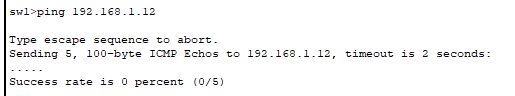
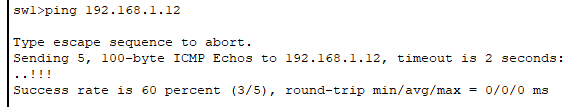
Punto 3

Changed region(s): [[0.0, 0.0, 0.9631, 1.0]]

diff --git a/TP-4/Trabajo Practico N4.md b/TP-4/Trabajo Practico N4.md
@@ -1,0 +1,293 @@
+# Trabajo Práctico 4
+
+**Nombres**  
+
+_María Pilar Sabena_
+
+_Mateo Quispe_
+
+_Nicolas De la Mata_  
+
+_Matias J. Costamagna_
+
+**Grupo:** _Ethernautas_ 
+
+**Facultad de Ciencias Exactas, Físicas y Naturales**  
+
+**Asignatura:** _Comunicaciones de Datos_
+
+**Profesores**
+_Miguel Á. Solinas_
+_Santiago M. Henn_
+_Facundo Oliva Cuneo_
+
+**Fecha:** _Septiembre_, 2025_
+
+---
+
+### Desarrollo
+
+### Punto 1
+
+a) Las redes se clasifican según su cobertura geográfica:
+- PAN (Personal Area Network):
+    - Alcance: Muy reducido (pocos metros, hasta ~10m)
+    - Características: Conecta dispositivos personales cercanos (smartphone, laptop, smartwatch, auriculares)
+    - Tecnologías: Bluetooth, NFC, USB
+
+- LAN (Local Area Network):
+    - Alcance: Edificio o campus (hasta ~1 km)
+    - Características: Red privada de alta velocidad, baja latencia, propiedad de una organización
+    - Tecnologías: Ethernet (IEEE 802.3), Wi-Fi (IEEE 802.11)
+
+- MAN (Metropolitan Area Network):
+    - Alcance: Ciudad o área metropolitana (hasta ~50 km)
+    - Características: Interconecta múltiples LANs en una zona geográfica amplia
+    - Tecnologías: Fibra óptica, enlaces inalámbricos de alta capacidad
+
+- WAN (Wide Area Network):
+    - Alcance: País, continente o mundial
+    - Características: Conecta redes a grandes distancias, menor velocidad que LAN/MAN, usa infraestructura de proveedores
+    - Tecnologías: MPLS, Frame Relay, Internet 
+
+b) VLAN (Virtual Local Area Network) es una red lógica que permite segmentar una red física (LAN) en múltiples redes virtuales independientes, sin necesidad de cambiar la infraestructura física.
+Clasificación de VLANs:
+
+- Por Puerto (Port-based VLAN): Los puertos del switch se asignan manualmente a una VLAN específica
+- Por Protocolo (Protocol-based VLAN): Basada en el tipo de protocolo (IP, IPX, AppleTalk)
+- Por Dirección MAC (MAC-based VLAN): Asigna dispositivos a VLANs según su dirección MAC
+- Por subred IP (Network-based VLAN): Basada en la dirección IP del dispositivo
+
+VLANs especiales:
+- VLAN 1: VLAN por defecto, tráfico de gestión
+- VLAN nativa: Para tráfico sin etiquetar en enlaces trunk
+- VLAN de gestión: Para administración de dispositivos de red
+
+c) EEE 802.1Q es el estándar que define el etiquetado de tramas Ethernet (frame tagging) para implementar VLANs en redes conmutadas. <br>Inserta un campo de 4 bytes en la trama Ethernet (entre los campos de dirección MAC de origen y EtherType).
+Este campo contiene:
+- TPID (Tag Protocol Identifier): 2 bytes - valor 0x8100
+- TCI (Tag Control Information): 2 bytes
+    - PCP (3 bits): Prioridad (QoS)
+    - DEI (1 bit): Drop Eligible Indicator
+    - VID (12 bits): VLAN ID (0-4095)
+
+Relación con VLANs:
+- Permite que múltiples VLANs compartan el mismo enlace físico (trunk)
+- Los switches usan el VID para identificar a qué VLAN pertenece cada trama
+- Mantiene el aislamiento lógico entre VLANs aunque compartan infraestructura
+
+d) El Tagginge es el mecanismo técnico que hace posible la implementación práctica de las VLANs dentro de redes de alcance LAN. En el contexto de la clasificación de redes por alcance, tradicionalmente una LAN física representaba un único dominio de broadcast que requería infraestructura dedicada para cada segmento de red, lo cual era costoso e inflexible. Las VLANs resolvieron este problema permitiendo crear múltiples redes lógicas sobre la misma infraestructura física, pero esto generó un nuevo desafío: cuando múltiples VLANs comparten el mismo enlace físico entre switches, es necesario un método para identificar a qué VLAN pertenece cada trama. El Tagging, definido por el estándar IEEE 802.1Q, soluciona este problema insertando un campo de 4 bytes en las tramas Ethernet que incluye el identificador de VLAN (VID). Este proceso funciona de la siguiente manera: cuando una trama llega a un puerto de acceso, el switch conoce la VLAN asociada a ese puerto; si la trama debe enviarse a través de un enlace trunk hacia otro switch, el switch agrega la etiqueta 802.1Q con el número de VLAN correspondiente; la trama viaja por el cable físico con esta etiqueta, permitiendo que múltiples VLANs compartan el mismo medio; el switch receptor lee la etiqueta, identifica la VLAN y envía la trama solo a los puertos que pertenecen a esa VLAN; finalmente, si el puerto destino es de acceso, se remueve la etiqueta antes de entregar la trama al dispositivo final. De esta forma, el Tagging es la tecnología fundamental que permite virtualizar una única LAN física en múltiples LANs lógicas aisladas, haciendo posible que empresas, campus universitarios o cualquier organización puedan segmentar su red por departamentos, funciones o niveles de seguridad sin necesidad de duplicar la infraestructura física de switches y cableado, optimizando recursos y simplificando la gestión de red.
+
+---
+
+### Punto 2
+
+![Red Topologica](https://hackmd.io/_uploads/r1uL1BuAxl.png)
+
+
+a) Cambio de nombre de los switches
+![2-A-SW1](https://hackmd.io/_uploads/S1cYC4dAxg.png)
+![2-A-SW2](https://hackmd.io/_uploads/r1ljRNdRgg.png)
+
+b) Asignacion de contraseñas
+![2-B-SW1](https://hackmd.io/_uploads/r13jAVdClg.png)
+![2-B-SW2](https://hackmd.io/_uploads/SJhoAVd0gx.png)
+
+c)Encriptacion de contraseñas
+![2-C](https://hackmd.io/_uploads/B1C1yruRee.png)
+
+d) Configuracion VLANs
+![2-D-SW1](https://hackmd.io/_uploads/ryQ-1B_0gg.png)
+![2-D-SW2](https://hackmd.io/_uploads/r1X-Jrd0lx.png)
+
+e) Interfaces activas
+![2-E-F-SW1](https://hackmd.io/_uploads/S1sGkHd0le.png)
+![2-E-F-SW2](https://hackmd.io/_uploads/S1ozkHORge.png)
+
+g) Comunicacion entre computadoras
+![2-G](https://hackmd.io/_uploads/r1fv1SdRgg.png)
+
+h) Creacion VLANs
+![2-H-SW1](https://hackmd.io/_uploads/BJDdJHuRxe.png)
+
+i) La VLAN utilizada por defecto es la VLAN 1.
+![2-I-SW1](https://hackmd.io/_uploads/SJgnyS_Rll.png)
+
+j) Asignacion de PC-A a VLAN Laboratorio (VLAN 10)
+![2-J-SW1](https://hackmd.io/_uploads/B176yruRgg.png)
+
+k) Modificacion IP de VLAN 1 y estado de Interfaces e IP's
+![2-K-L-SW1 (2)](https://hackmd.io/_uploads/r1rylrdAgl.png)
+![2-K-L-SW1](https://hackmd.io/_uploads/BJrylBuRex.png)
+
+m) Asignacion PC-B a VLAN Laboratorio (VLAN 10)
+![2-M-SW2 (2)](https://hackmd.io/_uploads/S1Fzxr_Alx.png)
+![2-M-SW2](https://hackmd.io/_uploads/ryYMxS_Axg.png)
+
+n) Verificacion de conexion entre PC's y entre Switches
+![2-N-PCA](https://hackmd.io/_uploads/B1hb7gbJbg.png)
+![2-N-SW1](https://hackmd.io/_uploads/ByeCmxZybl.png)
+
+--- 
+
+### Punto 3
+
+1. Diseño y Cableado Físico
+Se implementó una topología centralizada compuesta por el Router Aircraft, un Switch (SW), un Server Entretenimiento y siete dispositivos finales (PCs).
+
+
+
+| Conexión | Dispositivos | Interfaz Router | Interfaz Switch | Tipo de Cable |
+| -------- | -------- | -------- | - | - |
+| Enlace Troncal     | Router $\leftrightarrow$ SW     | Fa0/0     | F0/1 | Cobre Directo |
+| WAN/ISP | Router $\leftrightarrow$ ISP Router | Fa0/1 | G0/0 | Cobre Cruzado |
+| Server     | SW $\leftrightarrow$ Server     | N/A     | F0/8 | Cobre Directo |
+| PCs Cliente | SW $\leftrightarrow$ PCs | N/A | F0/2 a F0/7 | Cobre Directo |
+
+![Topologico - Punto 3](https://hackmd.io/_uploads/SkOs9Wb1Zx.png)
+
+
+2. Configuración del Switch (SW)
+Se definieron las VLANs y se asignaron los puertos según la clase de servicio.
+
+    A. Creación y Nombres de VLANs
+    Se crearon y nombraron las VLANs necesarias:
+
+    Fragmento de código:
+
+    vlan 10
+     name Turista
+    vlan 20
+     name Business
+    vlan 99
+     name Admin
+     
+    B. Asignación de Puertos (Access Ports)
+Se asignaron los puertos al modo de acceso según el número de PCs por clase:
+
+
+    | Clase | VLAN | Interfaz(ces) | PCs | 
+    | -------- | -------- | -------- | - |
+    | Turista     | 10     | FastEthernet0/2 - 4     | 3 |
+    | Business     | 20     | FastEthernet0/5 - 6     | 2 |
+    | Admin     | 99     | FastEthernet0/7     | 1 |
+    | Server     | 99     | FastEthernet0/8     | 1 |
+    
+    C. Enlace Troncal
+Se configuró el puerto F0/1 como troncal para el Router:
+    interface FastEthernet0/1
+     switchport mode trunk
+
+3. Configuración del Router Aircraft
+El Router se configuró para enrutamiento, NAT y aplicación de ACLs, utilizando la sintaxis de interfaces FastEthernet (Fa0/0 y Fa0/1).
+
+    **A. Enrutamiento Inter-VLAN (Subinterfaces):**
+Se crearon las subinterfaces en Fa0/0 para actuar como Gateways y se marcaron como interfaces NAT Internal.
+
+    Fragmento de código:
+
+        interface FastEthernet0/0.10
+        encapsulation dot1Q 10
+        ip address 10.10.10.1 255.255.255.0
+        ip nat inside
+        interface FastEthernet0/0.20
+        encapsulation dot1Q 20
+        ip address 10.10.20.1 255.255.255.0
+        ip nat inside
+        interface FastEthernet0/0.99
+        encapsulation dot1Q 99
+        ip address 10.10.99.1 255.255.255.0
+        ip nat inside
+
+    **B. Interfaz WAN y NAT Outside:**
+Se configuró la interfaz de salida a Internet y se marcó como NAT Outside.
+
+    Fragmento de código:
+
+        interface FastEthernet0/1
+        ip address 200.0.0.1 255.255.255.252
+        ip nat outside
+        no shutdown
+     
+     **C. Configuración de NAT (VLAN 20 Exclusiva):** Se implementó PAT (Port Address Translation) para permitir que solo la VLAN 20 acceda a Internet.
+
+    Fragmento de código:
+
+        access-list 20 permit 10.10.20.0 0.0.0.255
+        ip nat inside source list 20 interface FastEthernet0/1 overload
+    
+    **D. ACL (Restricción de Turista):** Se aplicó la ACL extendida 100 para bloquear el tráfico de Turista (10.10.10.0/24) hacia cualquier destino externo, mientras se permite el tráfico restante (incluido el tráfico interno hacia el servidor).
+
+    Fragmento de código:
+
+        access-list 100 deny ip 10.10.10.0 0.0.0.255 any
+        access-list 100 permit ip any any
+        interface FastEthernet0/0.10
+        ip access-group 100 out
+     
+     **E. Ruta por Defecto:** Se configuró una ruta estática para dirigir todo el tráfico desconocido (Internet) al ISP:
+
+    Fragmento de código:
+
+        ip route 0.0.0.0 0.0.0.0 200.0.0.2
+    
+4. Direccionamiento de End Devices y Servidor
+
+    Los dispositivos finales fueron configurados con direcciones IP estáticas y su Gateway correspondiente (la IP de la subinterfaz del router). Por ejemplo, el Server Entretenimiento se configuró con la IP $10.10.99.10$ y Gateway $10.10.99.1$.
+
+5. Pruebas
+
+    A. Ping al servidor de entretenimiento desde PC Turista.
+    ![3-A](https://hackmd.io/_uploads/SkpimZZkbl.png)
+    
+    B. Acceso HTTP a servidor local desde PC Turista.
+    ![3-B](https://hackmd.io/_uploads/HkK4EZ-1Wx.png)
+    
+    C. Ping a Internet desde PC Turista.
+    ![3-C](https://hackmd.io/_uploads/S1mv1fZ1be.png)
+
+
+    D. Acceso HTTP a servidor local desde PC Business.
+    ![3-D](https://hackmd.io/_uploads/SyyYSZ-kWe.png)
+    
+    E. Ping a Internet (ej: 8.8.8.8) desde PC Business.
+    ![3-E](https://hackmd.io/_uploads/S1muF--1Zx.png)
+    
+    F. Ping entre Admin y todos.
+    
+    Ping a Dispositivos Locales (VLAN 99): Comprueba la conectividad con el Servidor de Entretenimiento, que también está en la VLAN 99.
+
+    ![3-F (1)](https://hackmd.io/_uploads/ryjRtb-yZe.png)
+    
+    Ping a Otras VLANs: Comprueba la comunicación a través del Router Aircraft a las VLANs de Turista y Business.
+
+    ![3-F (2)](https://hackmd.io/_uploads/S10Q5--1bl.png)
+    
+    Ping a Internet (Comprobación de Acceso Total): Comprueba si la PC Admin tiene acceso a la red externa simulada por el ISP.
+
+    ![3-F (3)](https://hackmd.io/_uploads/HyBD5WZkZx.png)
+
+
+
+### Conclusion
+
+La implementación del Punto 3 logró exitosamente la segmentación y el control de acceso necesarios para simular una red LAN a bordo de una aeronave, cumpliendo con los requisitos de seguridad y servicio diferenciado para cada clase (Turista, Business y Admin).
+
+1. Éxito de la Segmentación y el Enrutamiento
+     - Segmentación de Capa 2 (Switch): La creación de las VLANs 10, 20 y 99 y la correcta asignación de los puertos de acceso (incluido el servidor) aseguraron que el tráfico de cada clase estuviera aislado a nivel de capa de enlace.
+     - Enrutamiento Inter-VLAN (Router Aircraft): La configuración de subinterfaces en el Router (Fa0/0.10, Fa0/0.20, Fa0/0.99) permitió que la comunicación entre las clases fuera posible, estableciendo los Gateways $10.10.X.1$ necesarios.
+
+
+2. Validación de las Políticas de Acceso (NAT y ACL)
+Las pruebas de conectividad validaron la implementación de las políticas de seguridad:
+
+
+
+| Prueba | Resultado | Conclusión |
+| -------- | -------- | -------- |
+| PC Business $\leftrightarrow$ Internet ($8.8.8.8$)     | Éxito     | Se confirmó que el NAT y la ACL 20 tradujeron correctamente el tráfico de la VLAN 20, permitiendo la navegación.     |
+| PC Turista $\leftrightarrow$ Internet ($8.8.8.8$)     | Fallo (Request timed out)     | Se validó que la ACL 100 aplicada de forma saliente (out) en la subinterfaz Fa0/0.10 bloqueó exitosamente el acceso a Internet para la VLAN 10.     |
+| PC Turista $\leftrightarrow$ Server ($10.10.99.10$)     | Éxito     | Se comprobó que, a pesar de la ACL, el tráfico interno (Intra-VLAN e Inter-VLAN local) no fue bloqueado, permitiendo el acceso al servidor de entretenimiento.     |
+| PC Admin $\leftrightarrow$ Todos     | Éxito     | Se confirmó que la VLAN 99 mantiene un acceso total (sin restricciones de NAT o ACL), tal como se requiere para el segmento de administración.     |
+
+En resumen, la implementación demostró la capacidad del enrutamiento inter-VLAN para segmentar redes y el uso combinado de NAT y ACLs para aplicar políticas de acceso basadas en requisitos específicos del servicio.
